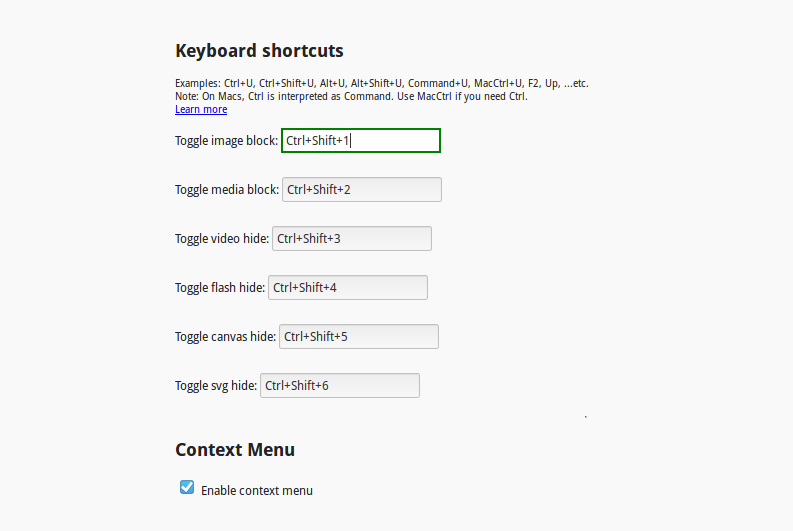
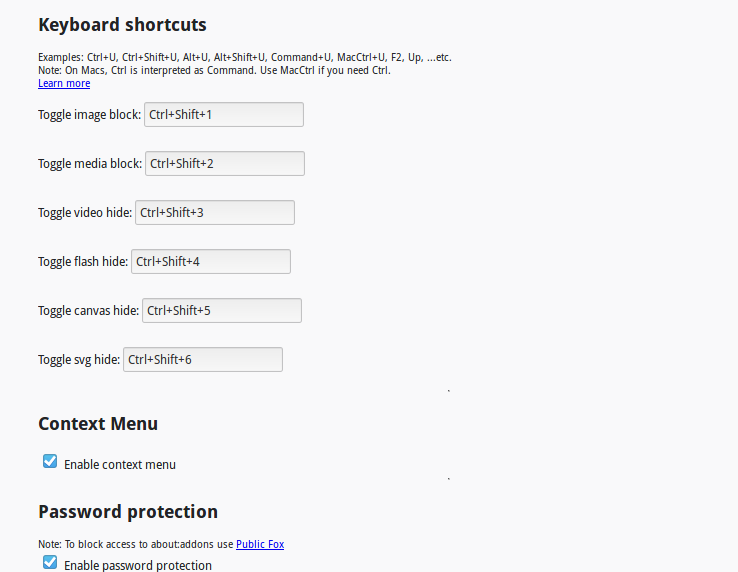
feat: Password protection

diff --git a/src/popup/popup.html b/src/popup/popup.html
@@ -8,46 +8,56 @@
   </head>
   <body>
 
-    <div class="header">
-      <div class="container">
-        __MSG_extensionName__
-      </div>
+    <div id="unlocker">
+      <h2>__MSG_popupUnlockerText__</h2>
+      <input id="password-input" type="password">
+      <button id="unlock-btn">__MSG_popupUnlockerBtnText__</button>
     </div>
 
-    <div class="settings">
-      <div class="container">
-        <div class="site-add">
-          <input type="text" placeholder="example.com">
-          <a href="#">&oplus;</a>
-          <div class="validation-error">Please enter a valid URL.</div>
-        </div>
-        <div class="site-list">
-          <select></select>
-          <br>
-          <a href="#">Remove Site</a>
-        </div>
-      </div>
-    </div>
+    <div id="content">
 
-    <div class="options">
-      <div class="container">
-        <div id="imgBlock" class="btn" title="__MSG_imgBlockTooltip__">
-          __MSG_imgBlockText__
-          <div id="downloadImgs" class="btn-half" title="__MSG_downloadImagesTooltip__">&darr;</div>
+      <div class="header">
+        <div class="container">
+          __MSG_extensionName__
         </div>
-        <div id="mediaBlock" class="btn" title="__MSG_mediaBlockTooltip__">__MSG_mediaBlockText__</div>
-        <div id="videoHide" class="btn" title="__MSG_videoHideTooltip__">__MSG_videoHideText__</div>
-        <div id="flashHide" class="btn" title="__MSG_flashHideTooltip__">__MSG_flashHideText__</div>
-        <div id="canvasHide" class="btn" title="__MSG_canvasHideTooltip__">__MSG_canvasHideText__</div>
-        <div id="svgHide" class="btn" title="__MSG_svgHideTooltip__">__MSG_svgHideText__</div>
       </div>
-    </div>
 
-    <div class="footer">
-      <div class="container">
-        <a class="left" href="https://addons.mozilla.org/firefox/addon/image-video-block/">__MSG_leaveReview__</a>
-        <a id="closeWindow" class="right" href="#">__MSG_closeButton__</a>
+      <div class="settings">
+        <div class="container">
+          <div class="site-add">
+            <input type="text" placeholder="example.com">
+            <a href="#">&oplus;</a>
+            <div class="validation-error">Please enter a valid URL.</div>
+          </div>
+          <div class="site-list">
+            <select></select>
+            <br>
+            <a href="#">Remove Site</a>
+          </div>
+        </div>
       </div>
+
+      <div class="options">
+        <div class="container">
+          <div id="imgBlock" class="btn" title="__MSG_imgBlockTooltip__">
+            __MSG_imgBlockText__
+            <div id="downloadImgs" class="btn-half" title="__MSG_downloadImagesTooltip__">&darr;</div>
+          </div>
+          <div id="mediaBlock" class="btn" title="__MSG_mediaBlockTooltip__">__MSG_mediaBlockText__</div>
+          <div id="videoHide" class="btn" title="__MSG_videoHideTooltip__">__MSG_videoHideText__</div>
+          <div id="flashHide" class="btn" title="__MSG_flashHideTooltip__">__MSG_flashHideText__</div>
+          <div id="canvasHide" class="btn" title="__MSG_canvasHideTooltip__">__MSG_canvasHideText__</div>
+          <div id="svgHide" class="btn" title="__MSG_svgHideTooltip__">__MSG_svgHideText__</div>
+        </div>
+      </div>
+
+      <div class="footer">
+        <div class="container">
+          <a class="left" href="https://addons.mozilla.org/firefox/addon/image-video-block/">__MSG_leaveReview__</a>
+          <a id="closeWindow" class="right" href="#">__MSG_closeButton__</a>
+        </div>
+      </div>
+
     </div>
 
     <!-- scripts -->

diff --git a/src/popup/popup.js b/src/popup/popup.js
@@ -265,6 +265,48 @@ class ImageDownloadRequester
 }
 
 
+/* Password Protection Controller */
+class PasswordProtectionController
+{
+  constructor(addonSettingsManager)
+  {
+    this._addonSettingsManager = addonSettingsManager;
+
+    this._elements = {
+      'unlocker': $('#unlocker'),
+      'content': $('#content'),
+      'passwordInput': $('#password-input'),
+      'unlockBtn': $('#unlock-btn')
+    };
+
+    this._addonSettingsManager.onInit.addListener(this._toggleAccess.bind(this));
+
+    this._elements.unlockBtn.addEventListener('click', this._unlock.bind(this));
+    this._elements.passwordInput.addEventListener('keypress', e => {
+      if (e.key === 'Enter') this._unlock();
+    });
+  }
+
+  _toggleAccess()
+  {
+    let addonSettings = this._addonSettingsManager.getSettings();
+    let enabled = addonSettings.passwordEnabled;
+
+    this._elements.unlocker.style.display = enabled ? 'block' : 'none';
+    this._elements.content.style.display = enabled ? 'none' : 'block';
+  }
+
+  _unlock()
+  {
+    let addonSettings = this._addonSettingsManager.getSettings();
+    let unlocked = this._elements.passwordInput.value === addonSettings.password;
+
+    this._elements.unlocker.style.display = unlocked ? 'none' : 'block';
+    this._elements.content.style.display = unlocked ? 'block' : 'none';
+  }
+}
+
+
 /* Settings Manager */
 class SettingsManager
 {
@@ -374,6 +416,62 @@ class SettingsManager
 }
 
 
+/* Addon Settings Manager */
+class AddonSettingsManager
+{
+  constructor()
+  {
+    this._addonSettings = {};
+    this._DEFAULT_SETTINGS = {contextMenuEnabled: true, passwordEnabled: false, password: ''};
+
+    this.onChange = new EventEmitter();
+    this.onInit = new EventEmitter();
+
+    browser.storage.onChanged.addListener(this._onStorageChange.bind(this));
+
+    this._initStorage();  // Initial
+  }
+
+  getSettings()
+  {
+    let addonSettings = Object.assign({}, this._DEFAULT_SETTINGS, this._addonSettings);
+    return JSON.parse(JSON.stringify(addonSettings));
+  }
+
+  setSettings(newSettings)
+  {
+    this._addonSettings = Object.assign(this._addonSettings, newSettings);
+    this._saveSettings();
+  }
+
+  _saveSettings()
+  {
+    browser.storage.local.set({addonSettings: this._addonSettings});
+  }
+
+  _initStorage()
+  {
+    browser.storage.local.get().then(data => {
+      this._addonSettings = Object.assign(this._DEFAULT_SETTINGS,
+                                          data.addonSettings);
+      // Initial
+      this.onChange.fire();
+      this.onInit.fire();
+    });
+  }
+
+  _onStorageChange(newData)
+  {
+    if (!newData.addonSettings)
+      return;
+
+    this._addonSettings = Object.assign(this._DEFAULT_SETTINGS,
+                                        newData.addonSettings.newValue);
+    this.onChange.fire();
+  }
+}
+
+
 /* URL Utils */
 class URLUtils
 {
@@ -435,3 +533,5 @@ let siteListController = new SiteListController(settingsManager);
 let selectSiteHandler = new SelectSiteHandler(settingsManager, addSiteController, siteListController);
 let removeSiteController = new RemoveSiteController(settingsManager, siteListController);
 let siteSettingsController = new SiteSettingsController(settingsManager, siteListController);
+let addonSettingsManager = new AddonSettingsManager();
+let passwordProtectionController = new PasswordProtectionController(addonSettingsManager);

diff --git a/src/options/options.js b/src/options/options.js
@@ -85,13 +85,59 @@ class ContextMenuToggler
 }
 
 
+/* Password Protection Settings Manager */
+class PasswordProtectionSettingsManager
+{
+  constructor(addonSettingsManager)
+  {
+    this._addonSettingsManager = addonSettingsManager;
+
+    this._elements = {
+      'checkbox': $('#pp-checkbox'),
+      'input': $('#pp-input')
+    };
+
+    this._addonSettingsManager.onInit.addListener(this._changeCheckboxState.bind(this));
+    this._addonSettingsManager.onChange.addListener(this._changeInputState.bind(this));
+
+    this._elements.checkbox.addEventListener('change', this._onCheckboxChange.bind(this));
+    this._elements.input.addEventListener('change', this._onInputChange.bind(this));
+  }
+
+  _changeCheckboxState()
+  {
+    let addonSettings = this._addonSettingsManager.getSettings();
+    this._elements.checkbox.checked = addonSettings.passwordEnabled;
+  }
+
+  _changeInputState()
+  {
+    let addonSettings = this._addonSettingsManager.getSettings();
+    this._elements.input.disabled = !addonSettings.passwordEnabled;
+    this._elements.input.value = addonSettings.password;
+  }
+
+  _onCheckboxChange()
+  {
+    let state = this._elements.checkbox.checked;
+    this._addonSettingsManager.setSettings({passwordEnabled: state});
+  }
+
+  _onInputChange()
+  {
+    let password = this._elements.input.value;
+    this._addonSettingsManager.setSettings({password: password});
+  }
+}
+
+
 /* Addon Settings Manager */
 class AddonSettingsManager
 {
   constructor()
   {
     this._addonSettings = {};
-    this._DEFAULT_SETTINGS = {contextMenuEnabled: true};
+    this._DEFAULT_SETTINGS = {contextMenuEnabled: true, passwordEnabled: false, password: ''};
 
     this.onChange = new EventEmitter();
     this.onInit = new EventEmitter();
@@ -163,5 +209,7 @@ class EventEmitter
 
 
 // Init
+let addonSettingsManager = new AddonSettingsManager();
 new KeyboardShortcutsChanger();
-new ContextMenuToggler(new AddonSettingsManager());
+new ContextMenuToggler(addonSettingsManager);
+new PasswordProtectionSettingsManager(addonSettingsManager);

diff --git a/src/options/options.html b/src/options/options.html
@@ -27,6 +27,15 @@
     <h2>__MSG_optionsPageContextMenuTitle__</h2>
     <label><input id="context-menu" type="checkbox"> __MSG_optionsPageContextMenuLabel__</label>
 
+    <hr>
+
+    <h2>__MSG_optionsPagePasswordTitle__</h2>
+    <small>__MSG_optionsPagePasswordNote__
+      <a href="https://addons.mozilla.org/firefox/addon/public-fox/">Public Fox</a>
+    </small>
+    <label><input id="pp-checkbox" type="checkbox"> __MSG_optionsPagePasswordLabel__</label>
+    <input id="pp-input" type="text" placeholder="Password" disabled>
+
     <!-- scripts -->
     <script src="options.js" charset="utf-8"></script>
     <script src="../scripts/translator.js" charset="utf-8"></script>

diff --git a/src/background/background.js b/src/background/background.js
@@ -354,7 +354,7 @@ class AddonSettingsManager
   constructor()
   {
     this._addonSettings = {};
-    this._DEFAULT_SETTINGS = {contextMenuEnabled: true};
+    this._DEFAULT_SETTINGS = {contextMenuEnabled: true, passwordEnabled: false, password: ''};
 
     this.onChange = new EventEmitter();
     this.onInit = new EventEmitter();

diff --git a/src/popup/popup.css b/src/popup/popup.css
@@ -195,3 +195,19 @@ body {
   text-decoration: none;
   color: hsl(0, 0%, 40%);
 }
+
+
+/* Password Protection */
+#unlocker {
+  padding: 10px;
+
+  text-align: center;
+  font-size: 10px;
+  font-family: sans-serif;
+  color: hsl(0, 0%, 0%);
+  cursor: default;
+}
+
+#content {
+  display: none;  /* Default value */
+}

diff --git a/readme.md b/readme.md
@@ -51,6 +51,9 @@ Note: On macOS use *Command+Shift+1* to *6*
 
 ## Changelog
 
+**3.3**
+- Password protection
+
 **3.2.1**
 - Fix: Showing content before hidding
 
